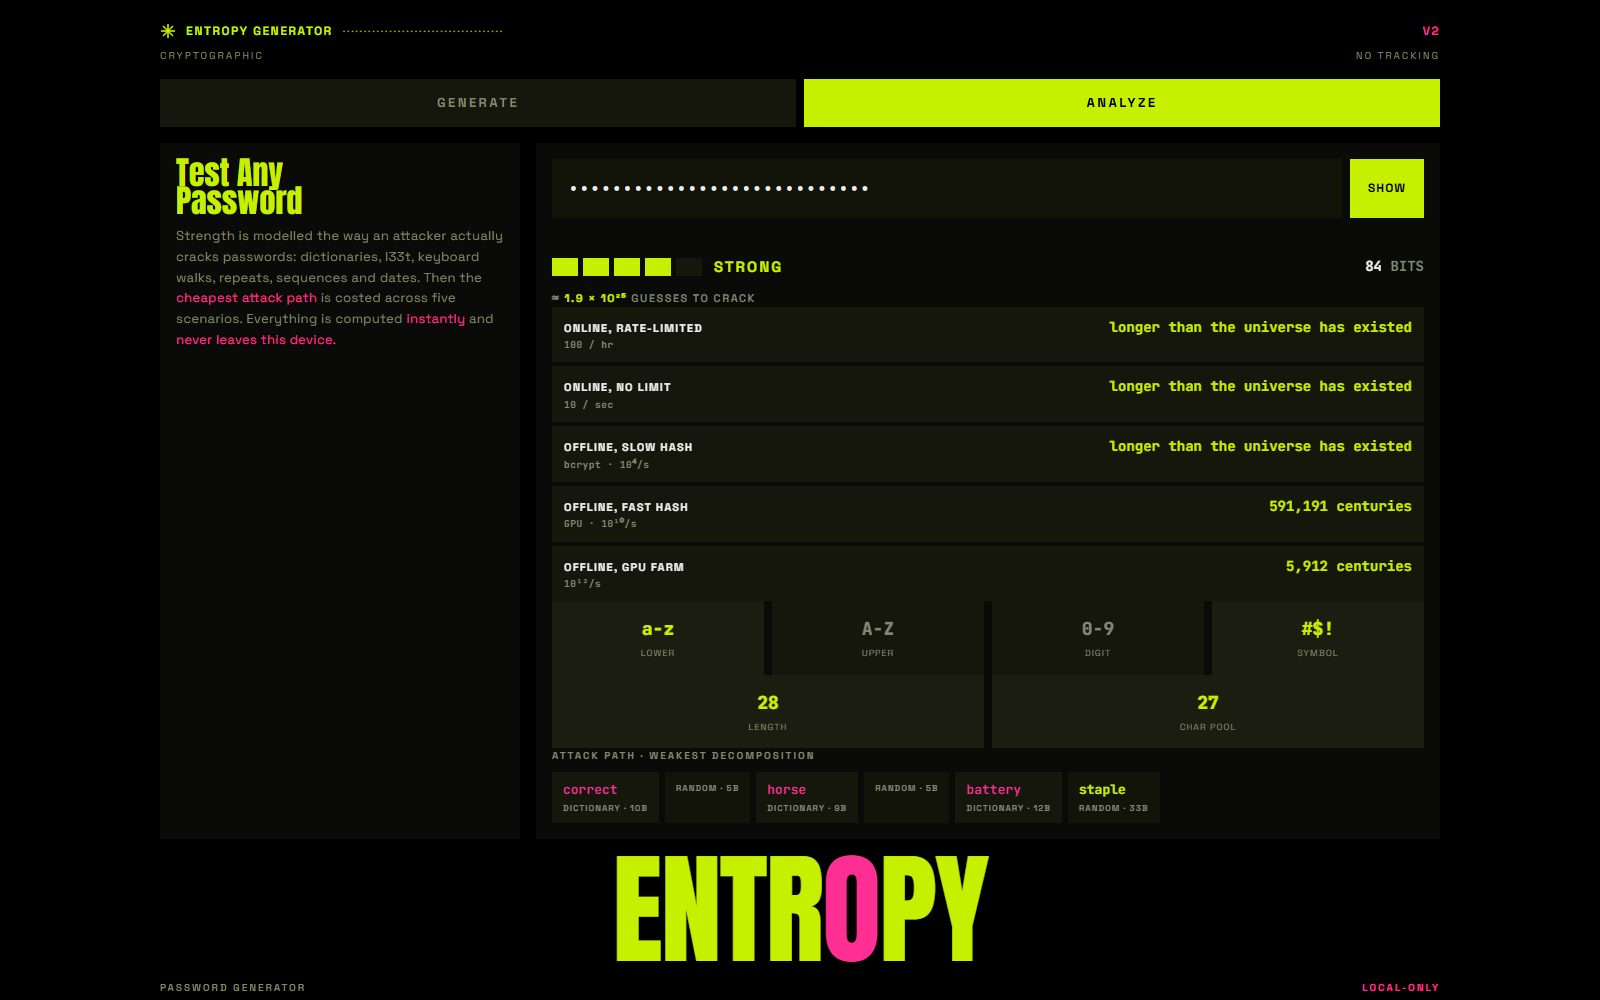
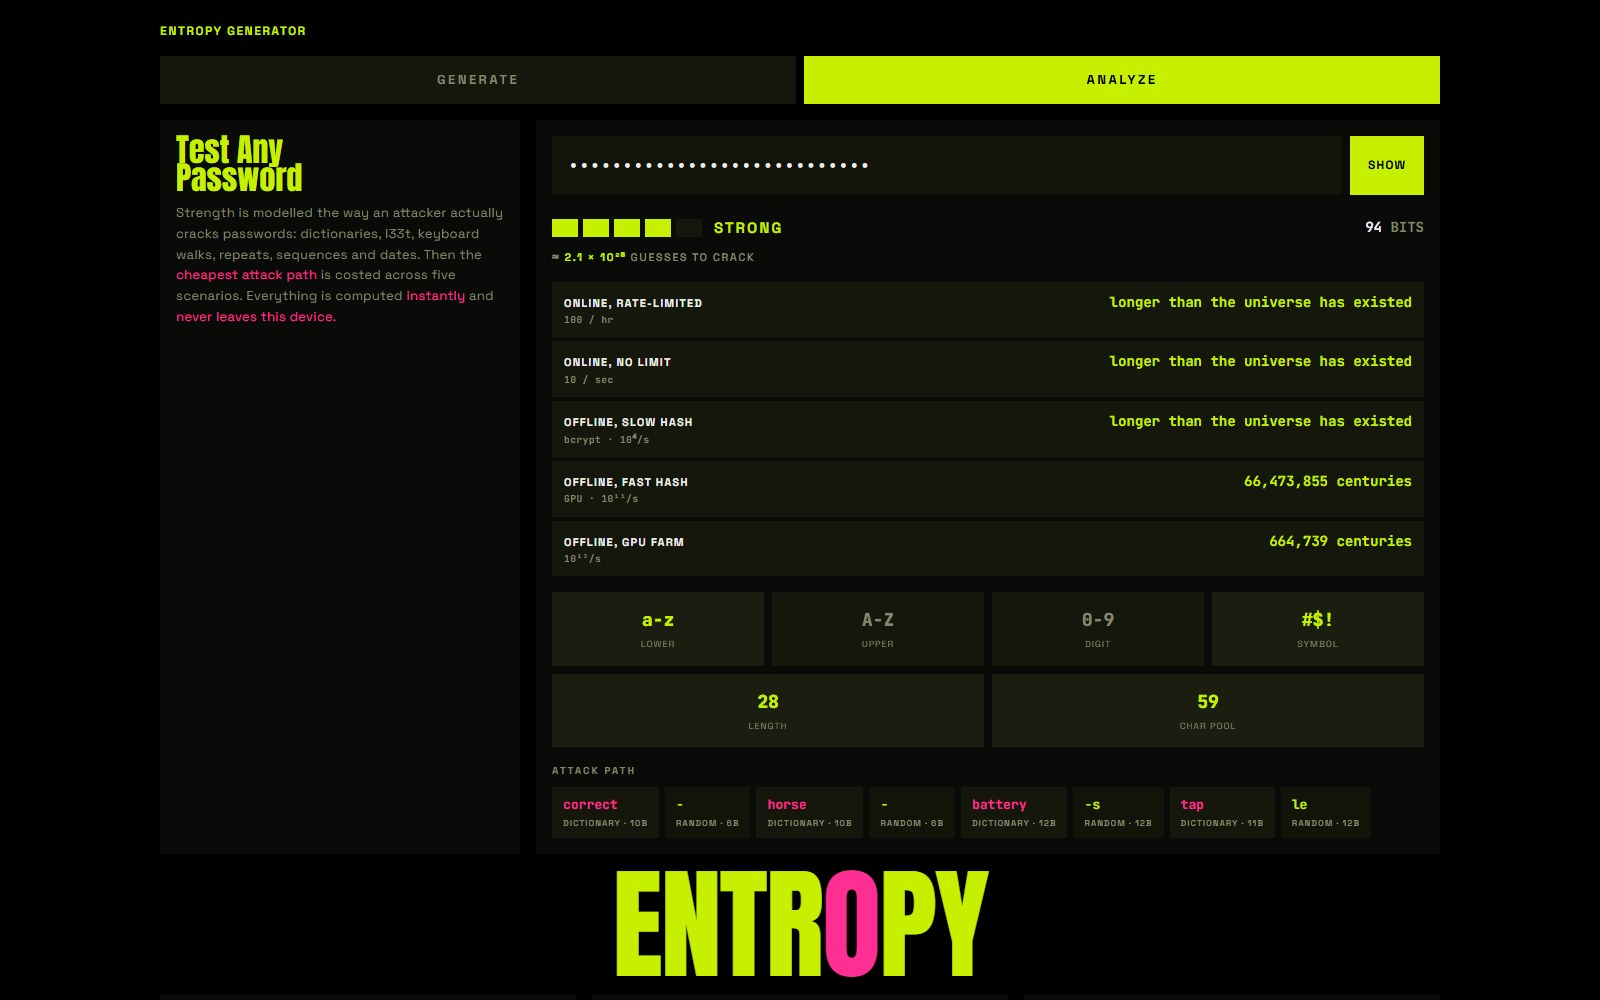
Retake Entropy's Analyze screenshot, now 94 bits for the same passphrase

diff --git a/src/constants/projects/entropy.ts b/src/constants/projects/entropy.ts
@@ -62,7 +62,7 @@ export const entropy: Record<Language, LocalizedContent> = {
     ],
     captions: [
       "The Generate tab: a 16-character password from all four character sets at 103 bits, rated maximum, with the generative art for its seed above it.",
-      "The Analyze tab on a four-word passphrase: 84 bits, the five attacker scenarios, and the attack path that splits it into dictionary words and random pieces.",
+      "The Analyze tab on a four-word passphrase: 94 bits, the five attacker scenarios, and the attack path that splits it into dictionary words and random pieces.",
     ],
     tags: ["Next.js", "TypeScript", "Web Crypto", "Security"],
     stats: [
@@ -119,7 +119,7 @@ export const entropy: Record<Language, LocalizedContent> = {
     ],
     captions: [
       "Der Generieren-Tab: ein Passwort mit 16 Zeichen aus allen vier Zeichensätzen, 103 Bit, als maximal bewertet, darüber die generative Grafik zu seinem Seed.",
-      "Der Analysieren-Tab mit einer Passphrase aus vier Wörtern: 84 Bit, die fünf Angreiferszenarien und der Angriffspfad, der sie in Wörterbuchwörter und zufällige Stücke zerlegt.",
+      "Der Analysieren-Tab mit einer Passphrase aus vier Wörtern: 94 Bit, die fünf Angreiferszenarien und der Angriffspfad, der sie in Wörterbuchwörter und zufällige Stücke zerlegt.",
     ],
     tags: ["Next.js", "TypeScript", "Web Crypto", "Security"],
     stats: [
@@ -176,7 +176,7 @@ export const entropy: Record<Language, LocalizedContent> = {
     ],
     captions: [
       "L'onglet Générer : un mot de passe de 16 caractères issu des quatre jeux, 103 bits, noté maximal, avec au-dessus l'art génératif de sa graine.",
-      "L'onglet Analyser sur une phrase de passe de quatre mots : 84 bits, les cinq scénarios d'attaque et le chemin d'attaque qui la découpe en mots du dictionnaire et en morceaux aléatoires.",
+      "L'onglet Analyser sur une phrase de passe de quatre mots : 94 bits, les cinq scénarios d'attaque et le chemin d'attaque qui la découpe en mots du dictionnaire et en morceaux aléatoires.",
     ],
     tags: ["Next.js", "TypeScript", "Web Crypto", "Security"],
     stats: [
@@ -233,7 +233,7 @@ export const entropy: Record<Language, LocalizedContent> = {
     ],
     captions: [
       "生成页：一个取自全部四个字符集的 16 位密码，103 比特，评为最高档，上方是按它的种子画出的生成艺术。",
-      "分析页里的一个四词口令短语：84 比特、五种攻击场景，以及把它拆成词表单词和随机片段的攻击路径。",
+      "分析页里的一个四词口令短语：94 比特、五种攻击场景，以及把它拆成词表单词和随机片段的攻击路径。",
     ],
     tags: ["Next.js", "TypeScript", "Web Crypto", "Security"],
     stats: [
